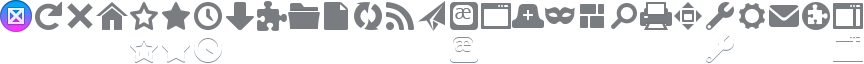
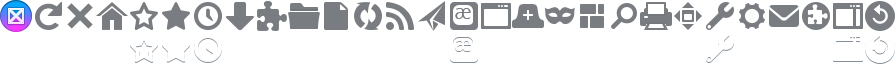
Upgrade to Firefox 34.0a2 (01-Oct-2014 10:30)

diff --git a/theme/chrome-34/browser/browser.css b/theme/chrome-34/browser/browser.css
@@ -556,9 +556,9 @@ menuitem:not([type]):not(.menuitem-tooltip):not(.menuitem-iconic-tooltip) {
   transition-duration: 150ms;
 }
 
-:-moz-any(#TabsToolbar, #nav-bar) .toolbarbutton-1:not(:-moz-any(#back-button, #forward-button, #home-button, #print-button, #downloads-button, #bookmarks-menu-button, #new-tab-button, #new-window-button, #fullscreen-button, #sync-button, #feed-button, #tabview-button, #social-share-button, #open-file-button, #find-button, #developer-button, #preferences-button, #privatebrowsing-button, #save-page-button, #switch-to-metro-button, #add-ons-button, #history-panelmenu, #nav-bar-overflow-button, #PanelUI-menu-button, #characterencoding-button, #email-link-button, #sidebar-button, #zoom-out-button, #zoom-reset-button, #zoom-in-button, #cut-button, #copy-button, #paste-button, #e10s-button)) > .toolbarbutton-icon,
-:-moz-any(#TabsToolbar, #nav-bar) .toolbarbutton-1:not(:-moz-any(#back-button, #forward-button, #home-button, #print-button, #downloads-button, #bookmarks-menu-button, #new-tab-button, #new-window-button, #fullscreen-button, #sync-button, #feed-button, #tabview-button, #social-share-button, #open-file-button, #find-button, #developer-button, #preferences-button, #privatebrowsing-button, #save-page-button, #switch-to-metro-button, #add-ons-button, #history-panelmenu, #nav-bar-overflow-button, #PanelUI-menu-button, #characterencoding-button, #email-link-button, #sidebar-button, #zoom-out-button, #zoom-reset-button, #zoom-in-button, #cut-button, #copy-button, #paste-button, #e10s-button)) > .toolbarbutton-badge-container > .toolbarbutton-icon,
-:-moz-any(#TabsToolbar, #nav-bar) .toolbarbutton-1:not(:-moz-any(#back-button, #forward-button, #home-button, #print-button, #downloads-button, #bookmarks-menu-button, #new-tab-button, #new-window-button, #fullscreen-button, #sync-button, #feed-button, #tabview-button, #social-share-button, #open-file-button, #find-button, #developer-button, #preferences-button, #privatebrowsing-button, #save-page-button, #switch-to-metro-button, #add-ons-button, #history-panelmenu, #nav-bar-overflow-button, #PanelUI-menu-button, #characterencoding-button, #email-link-button, #sidebar-button, #zoom-out-button, #zoom-reset-button, #zoom-in-button, #cut-button, #copy-button, #paste-button, #e10s-button)) > .toolbarbutton-menubutton-button > .toolbarbutton-icon {
+:-moz-any(#TabsToolbar, #nav-bar) .toolbarbutton-1:not(:-moz-any(#back-button, #forward-button, #home-button, #print-button, #downloads-button, #bookmarks-menu-button, #new-tab-button, #new-window-button, #fullscreen-button, #sync-button, #feed-button, #tabview-button, #social-share-button, #open-file-button, #find-button, #developer-button, #preferences-button, #privatebrowsing-button, #save-page-button, #switch-to-metro-button, #add-ons-button, #history-panelmenu, #nav-bar-overflow-button, #PanelUI-menu-button, #characterencoding-button, #email-link-button, #sidebar-button, #zoom-out-button, #zoom-reset-button, #zoom-in-button, #cut-button, #copy-button, #paste-button, #e10s-button, #panic-button)) > .toolbarbutton-icon,
+:-moz-any(#TabsToolbar, #nav-bar) .toolbarbutton-1:not(:-moz-any(#back-button, #forward-button, #home-button, #print-button, #downloads-button, #bookmarks-menu-button, #new-tab-button, #new-window-button, #fullscreen-button, #sync-button, #feed-button, #tabview-button, #social-share-button, #open-file-button, #find-button, #developer-button, #preferences-button, #privatebrowsing-button, #save-page-button, #switch-to-metro-button, #add-ons-button, #history-panelmenu, #nav-bar-overflow-button, #PanelUI-menu-button, #characterencoding-button, #email-link-button, #sidebar-button, #zoom-out-button, #zoom-reset-button, #zoom-in-button, #cut-button, #copy-button, #paste-button, #e10s-button, #panic-button)) > .toolbarbutton-badge-container > .toolbarbutton-icon,
+:-moz-any(#TabsToolbar, #nav-bar) .toolbarbutton-1:not(:-moz-any(#back-button, #forward-button, #home-button, #print-button, #downloads-button, #bookmarks-menu-button, #new-tab-button, #new-window-button, #fullscreen-button, #sync-button, #feed-button, #tabview-button, #social-share-button, #open-file-button, #find-button, #developer-button, #preferences-button, #privatebrowsing-button, #save-page-button, #switch-to-metro-button, #add-ons-button, #history-panelmenu, #nav-bar-overflow-button, #PanelUI-menu-button, #characterencoding-button, #email-link-button, #sidebar-button, #zoom-out-button, #zoom-reset-button, #zoom-in-button, #cut-button, #copy-button, #paste-button, #e10s-button, #panic-button)) > .toolbarbutton-menubutton-button > .toolbarbutton-icon {
   padding: 3px 7px;
 }
 
@@ -782,12 +782,12 @@ window:not([chromehidden~="toolbar"]) #urlbar-wrapper:not(:hover) > #forward-but
 
 /* Note that this file isn't used for HiDPI on OS X. */
 
-:-moz-any(#back-button, #forward-button, #home-button, #print-button, #downloads-button, #bookmarks-menu-button, #new-tab-button, #new-window-button, #fullscreen-button, #sync-button, #feed-button, #tabview-button, #social-share-button, #open-file-button, #find-button, #developer-button, #preferences-button, #privatebrowsing-button, #save-page-button, #switch-to-metro-button, #add-ons-button, #history-panelmenu, #nav-bar-overflow-button, #PanelUI-menu-button, #characterencoding-button, #email-link-button, #sidebar-button, #zoom-out-button, #zoom-reset-button, #zoom-in-button, #cut-button, #copy-button, #paste-button, #e10s-button),
+:-moz-any(#back-button, #forward-button, #home-button, #print-button, #downloads-button, #bookmarks-menu-button, #new-tab-button, #new-window-button, #fullscreen-button, #sync-button, #feed-button, #tabview-button, #social-share-button, #open-file-button, #find-button, #developer-button, #preferences-button, #privatebrowsing-button, #save-page-button, #switch-to-metro-button, #add-ons-button, #history-panelmenu, #nav-bar-overflow-button, #PanelUI-menu-button, #characterencoding-button, #email-link-button, #sidebar-button, #zoom-out-button, #zoom-reset-button, #zoom-in-button, #cut-button, #copy-button, #paste-button, #e10s-button, #panic-button),
 #bookmarks-menu-button > .toolbarbutton-menubutton-dropmarker > .dropmarker-icon {
   list-style-image: url("chrome://browser/skin/Toolbar.png");
 }
 
-toolbar[brighttext] :-moz-any(#back-button, #forward-button, #home-button, #print-button, #downloads-button, #bookmarks-menu-button, #new-tab-button, #new-window-button, #fullscreen-button, #sync-button, #feed-button, #tabview-button, #social-share-button, #open-file-button, #find-button, #developer-button, #preferences-button, #privatebrowsing-button, #save-page-button, #switch-to-metro-button, #add-ons-button, #history-panelmenu, #nav-bar-overflow-button, #PanelUI-menu-button, #characterencoding-button, #email-link-button, #sidebar-button, #zoom-out-button, #zoom-reset-button, #zoom-in-button, #cut-button, #copy-button, #paste-button, #e10s-button),
+toolbar[brighttext] :-moz-any(#back-button, #forward-button, #home-button, #print-button, #downloads-button, #bookmarks-menu-button, #new-tab-button, #new-window-button, #fullscreen-button, #sync-button, #feed-button, #tabview-button, #social-share-button, #open-file-button, #find-button, #developer-button, #preferences-button, #privatebrowsing-button, #save-page-button, #switch-to-metro-button, #add-ons-button, #history-panelmenu, #nav-bar-overflow-button, #PanelUI-menu-button, #characterencoding-button, #email-link-button, #sidebar-button, #zoom-out-button, #zoom-reset-button, #zoom-in-button, #cut-button, #copy-button, #paste-button, #e10s-button, #panic-button),
 toolbar[brighttext] #bookmarks-menu-button > .toolbarbutton-menubutton-dropmarker > .dropmarker-icon {
   list-style-image: url(chrome://browser/skin/Toolbar-inverted.png);
 }
@@ -947,6 +947,19 @@ toolbar[brighttext] #sync-button[status="active"]:hover:active:not([disabled="tr
   -moz-image-region: rect(0, 684px, 18px, 666px);
 }
 
+#panic-button[cui-areatype="toolbar"] {
+  -moz-image-region: rect(0, 702px, 18px, 684px);
+}
+
+#panic-button[cui-areatype="toolbar"][open] {
+  -moz-image-region: rect(18px, 702px, 36px, 684px);
+}
+
+#panic-button:-moz-locale-dir(rtl) > .toolbarbutton-icon {
+  transform: scaleX(-1);
+}
+
+
 #loop-call-button > .toolbarbutton-badge-container {
   list-style-image: url(chrome://browser/skin/loop/toolbar.png);
   -moz-image-region: rect(0, 18px, 18px, 0);
@@ -981,10 +994,11 @@ toolbar[brighttext] #loop-call-button > .toolbarbutton-badge-container {
   -moz-image-region: rect(0, 126px, 18px, 108px);
 }
 /* Menu panel and palette styles */
+/* Note that this file isn't used for HiDPI on OS X. */
 
 toolbaritem[sdkstylewidget="true"] > toolbarbutton,
-:-moz-any(#back-button, #forward-button, #home-button, #print-button, #downloads-button, #bookmarks-menu-button, #new-tab-button, #new-window-button, #fullscreen-button, #sync-button, #feed-button, #tabview-button, #social-share-button, #open-file-button, #find-button, #developer-button, #preferences-button, #privatebrowsing-button, #save-page-button, #switch-to-metro-button, #add-ons-button, #history-panelmenu, #nav-bar-overflow-button, #PanelUI-menu-button, #characterencoding-button, #email-link-button, #sidebar-button, #zoom-out-button, #zoom-reset-button, #zoom-in-button, #cut-button, #copy-button, #paste-button, #e10s-button)[cui-areatype="menu-panel"],
-toolbarpaletteitem[place="palette"] > :-moz-any(#back-button, #forward-button, #home-button, #print-button, #downloads-button, #bookmarks-menu-button, #new-tab-button, #new-window-button, #fullscreen-button, #sync-button, #feed-button, #tabview-button, #social-share-button, #open-file-button, #find-button, #developer-button, #preferences-button, #privatebrowsing-button, #save-page-button, #switch-to-metro-button, #add-ons-button, #history-panelmenu, #nav-bar-overflow-button, #PanelUI-menu-button, #characterencoding-button, #email-link-button, #sidebar-button, #zoom-out-button, #zoom-reset-button, #zoom-in-button, #cut-button, #copy-button, #paste-button, #e10s-button) {
+:-moz-any(#back-button, #forward-button, #home-button, #print-button, #downloads-button, #bookmarks-menu-button, #new-tab-button, #new-window-button, #fullscreen-button, #sync-button, #feed-button, #tabview-button, #social-share-button, #open-file-button, #find-button, #developer-button, #preferences-button, #privatebrowsing-button, #save-page-button, #switch-to-metro-button, #add-ons-button, #history-panelmenu, #nav-bar-overflow-button, #PanelUI-menu-button, #characterencoding-button, #email-link-button, #sidebar-button, #zoom-out-button, #zoom-reset-button, #zoom-in-button, #cut-button, #copy-button, #paste-button, #e10s-button, #panic-button)[cui-areatype="menu-panel"],
+toolbarpaletteitem[place="palette"] > :-moz-any(#back-button, #forward-button, #home-button, #print-button, #downloads-button, #bookmarks-menu-button, #new-tab-button, #new-window-button, #fullscreen-button, #sync-button, #feed-button, #tabview-button, #social-share-button, #open-file-button, #find-button, #developer-button, #preferences-button, #privatebrowsing-button, #save-page-button, #switch-to-metro-button, #add-ons-button, #history-panelmenu, #nav-bar-overflow-button, #PanelUI-menu-button, #characterencoding-button, #email-link-button, #sidebar-button, #zoom-out-button, #zoom-reset-button, #zoom-in-button, #cut-button, #copy-button, #paste-button, #e10s-button, #panic-button) {
   list-style-image: url(chrome://browser/skin/menuPanel.png);
 }
 
@@ -1126,6 +1140,15 @@ toolbarpaletteitem[place="palette"] > #sidebar-button {
 
 #sidebar-button[cui-areatype="menu-panel"][panel-multiview-anchor=true] {
   -moz-image-region: rect(32px, 864px, 64px, 832px);
+}
+
+#panic-button[cui-areatype="menu-panel"],
+toolbarpaletteitem[place="palette"] > #panic-button {
+  -moz-image-region: rect(0, 896px, 32px, 864px);
+}
+
+#panic-button[cui-areatype="menu-panel"][panel-multiview-anchor=true] {
+  -moz-image-region: rect(32px, 896px, 64px, 864px);
 }
 
 toolbaritem[sdkstylewidget="true"] > toolbarbutton {

diff --git a/theme/chrome-34/browser/customizableui/panelUIOverlay.css b/theme/chrome-34/browser/customizableui/panelUIOverlay.css
@@ -1090,6 +1090,190 @@ menuitem[checked="true"].subviewbutton > .menu-iconic-left {
   visibility: hidden;
 }
 
+#PanelUI-panicView.cui-widget-panelview {
+  min-width: 280px;
+}
+
+#PanelUI-panic-timeframe {
+  padding: 15px;
+  border-bottom: 1px solid rgba(0,0,0,0.1);
+}
+
+#panic-button-success-icon,
+#PanelUI-panic-timeframe-icon,
+#PanelUI-panic-timeframe-icon-small {
+  background-color: transparent;
+  -moz-margin-end: 10px;
+}
+
+#panic-button-success-icon,
+#PanelUI-panic-timeframe-icon {
+  list-style-image: url(chrome://browser/skin/panic-panel/header.png);
+  max-height: 48px;
+  width: 48px;
+}
+
+#PanelUI-panic-timeframe-icon-small {
+  list-style-image: url(chrome://browser/skin/panic-panel/header-small.png);
+  max-height: 32px;
+  width: 32px;
+}
+
+/* current attribute is only set when in use as a subview instead of a main view */
+#PanelUI-panicView[current] #PanelUI-panic-timeframe-icon {
+  display: none;
+}
+
+#PanelUI-panicView.cui-widget-panelview #PanelUI-panic-timeframe-icon-small {
+  display: none;
+}
+
+#panic-button-success-header,
+#PanelUI-panic-header {
+  -moz-box-align: center;
+  margin-bottom: 5px;
+}
+
+#PanelUI-panicView.cui-widget-panelview #PanelUI-panic-header {
+  margin-bottom: 0;
+}
+
+#PanelUI-panic-timeframe-icon-small:-moz-locale-dir(rtl),
+#PanelUI-panic-timeframe-icon:-moz-locale-dir(rtl) {
+  transform: scaleX(-1);
+}
+
+.subviewradio {
+  -moz-binding: url(chrome://global/content/bindings/radio.xml#radio);
+  -moz-appearance: none;
+  padding: 1px;
+  margin: 0 0 2px;
+  background-color: hsla(210,4%,10%,0);
+  border-radius: 2px;
+  border-width: 1px;
+  border-style: solid;
+  border-color: hsla(210,4%,10%,0);
+}
+
+.subviewradio:not(:-moz-any([disabled],[open],:active)):hover {
+  background-color: hsla(210,4%,10%,.08);
+  border-color: hsla(210,4%,10%,.11);
+}
+
+.subviewradio[selected],
+.subviewradio[selected]:hover,
+.subviewradio:not([disabled]):-moz-any([open],:hover:active) {
+  background-color: hsla(210,4%,10%,.12);
+  border-color: hsla(210,4%,10%,.14);
+  box-shadow: 0 1px 0 hsla(210,4%,10%,.03) inset;
+}
+
+.subviewradio > .radio-check {
+  -moz-appearance: none;
+  width: 16px;
+  height: 16px;
+  border: 1px solid #e7e7e7;
+  border-radius: 50%;
+  margin: 1px 5px;
+  background-color: #f1f1f1;
+}
+
+.subviewradio > .radio-check[selected] {
+  background-color: #fff;
+  border: 4px solid #177ee6;
+}
+
+#PanelUI-panic-explanations {
+  padding: 10px 10px 0;
+}
+
+#PanelUI-panic-actionlist-main-label {
+  color: GrayText;
+  font-size: 0.9em;
+}
+
+.PanelUI-panic-actionlist {
+  -moz-padding-start: 20px;
+  padding-top: 2px;
+  padding-bottom: 2px;
+  background-size: 16px 16px;
+  background-repeat: no-repeat;
+  background-color: transparent;
+  background-position: center left;
+}
+
+.PanelUI-panic-actionlist:-moz-locale-dir(rtl) {
+  background-position: center right;
+}
+
+#PanelUI-panic-actionlist-cookies {
+  background-image: -moz-image-rect(url(chrome://browser/skin/panic-panel/icons.png), 0, 16, 16, 0);
+}
+
+#PanelUI-panic-actionlist-history {
+  background-image: -moz-image-rect(url(chrome://browser/skin/panic-panel/icons.png), 0, 32, 16, 16);
+}
+
+#PanelUI-panic-actionlist-windows {
+  background-image: -moz-image-rect(url(chrome://browser/skin/panic-panel/icons.png), 0, 48, 16, 32);
+}
+
+#PanelUI-panic-actionlist-newwindow {
+  background-image: -moz-image-rect(url(chrome://browser/skin/panic-panel/icons.png), 0, 64, 16, 48);
+}
+
+#PanelUI-panic-warning {
+  color: #C11F14;
+  text-align: center;
+  width: 100%;
+  margin-top: 20px;
+}
+
+#PanelUI-panic-view-button {
+  -moz-appearance: none;
+  background-color: #d92316;
+  color: white;
+  margin: 5px 15px 11px;
+  border: 1px solid #c92014;
+  border-radius: 3px;
+  padding: 10px;
+}
+
+#PanelUI-panic-view-button:hover {
+  background-color: #bf1f13;
+  border-color: #b81d12;
+}
+
+#PanelUI-panic-view-button:hover:active {
+  background-color: #99180f;
+  border-color: #91170f;
+}
+
+#PanelUI-panic-view-button > .toolbarbutton-text {
+  text-align: center;
+  text-shadow: none;
+}
+
+#panic-button-success-closebutton {
+  background-color: #e5e5e5;
+  color: black;
+  margin: 5px 0 0;
+  border: 1px solid #ccc;
+  border-radius: 3px;
+  padding: 10px;
+  -moz-appearance: none;
+}
+
+#panic-button-success-closebutton:hover {
+  background-color: #dedede;
+  border-color: #bbb;
+}
+
+#panic-button-success-closebutton:hover:active {
+  background-color: #d0d0d0;
+  border-color: #aaa;
+}
+
 .panel-subviews {
   background-color: -moz-dialog;
 }

diff --git a/theme/chrome-34/browser/newtab/newTab.css b/theme/chrome-34/browser/newtab/newTab.css
@@ -138,31 +138,34 @@
   background-size: auto;
 }
 
-/* Use a pseudo-element to overlay a gradient on the thumbnail */
-.newtab-site[type=history]:not(:hover) .newtab-thumbnail:first-child::after {
-  background-image: linear-gradient(0deg, rgba(251, 251, 251, 0.8), rgba(251, 251, 251, 0) 33%);
-  border-radius: inherit;
-  bottom: 0;
-  content: "";
-  left: 0;
-  pointer-events: none;
-  position: absolute;
-  right: 0;
-  top: 0;
-}
-
 /* TITLES */
+#newtab-intro-what,
+.newtab-sponsored,
 .newtab-title {
-  color: #737373;
+  color: #5c5c5c;
 }
 
 .newtab-site:hover .newtab-title {
-  color: #4a4a4a;
+  color: #222;
 }
 
 .newtab-site[pinned] .newtab-title {
-  color: #2c72c4;
-  font-weight: bold;
+  padding: 0 15px;
+}
+
+.newtab-site[pinned] .newtab-title::before {
+  background-image: -moz-image-rect(url("chrome://browser/skin/newtab/controls.svg"), 7, 278, 28, 266);
+  background-size: 10px;
+  content: "";
+  height: 17px;
+  left: 0;
+  position: absolute;
+  width: 10px;
+}
+
+.newtab-site[pinned] .newtab-title:-moz-locale-dir(rtl)::before {
+  left: auto;
+  right: 0;
 }
 
 /* CONTROLS */
